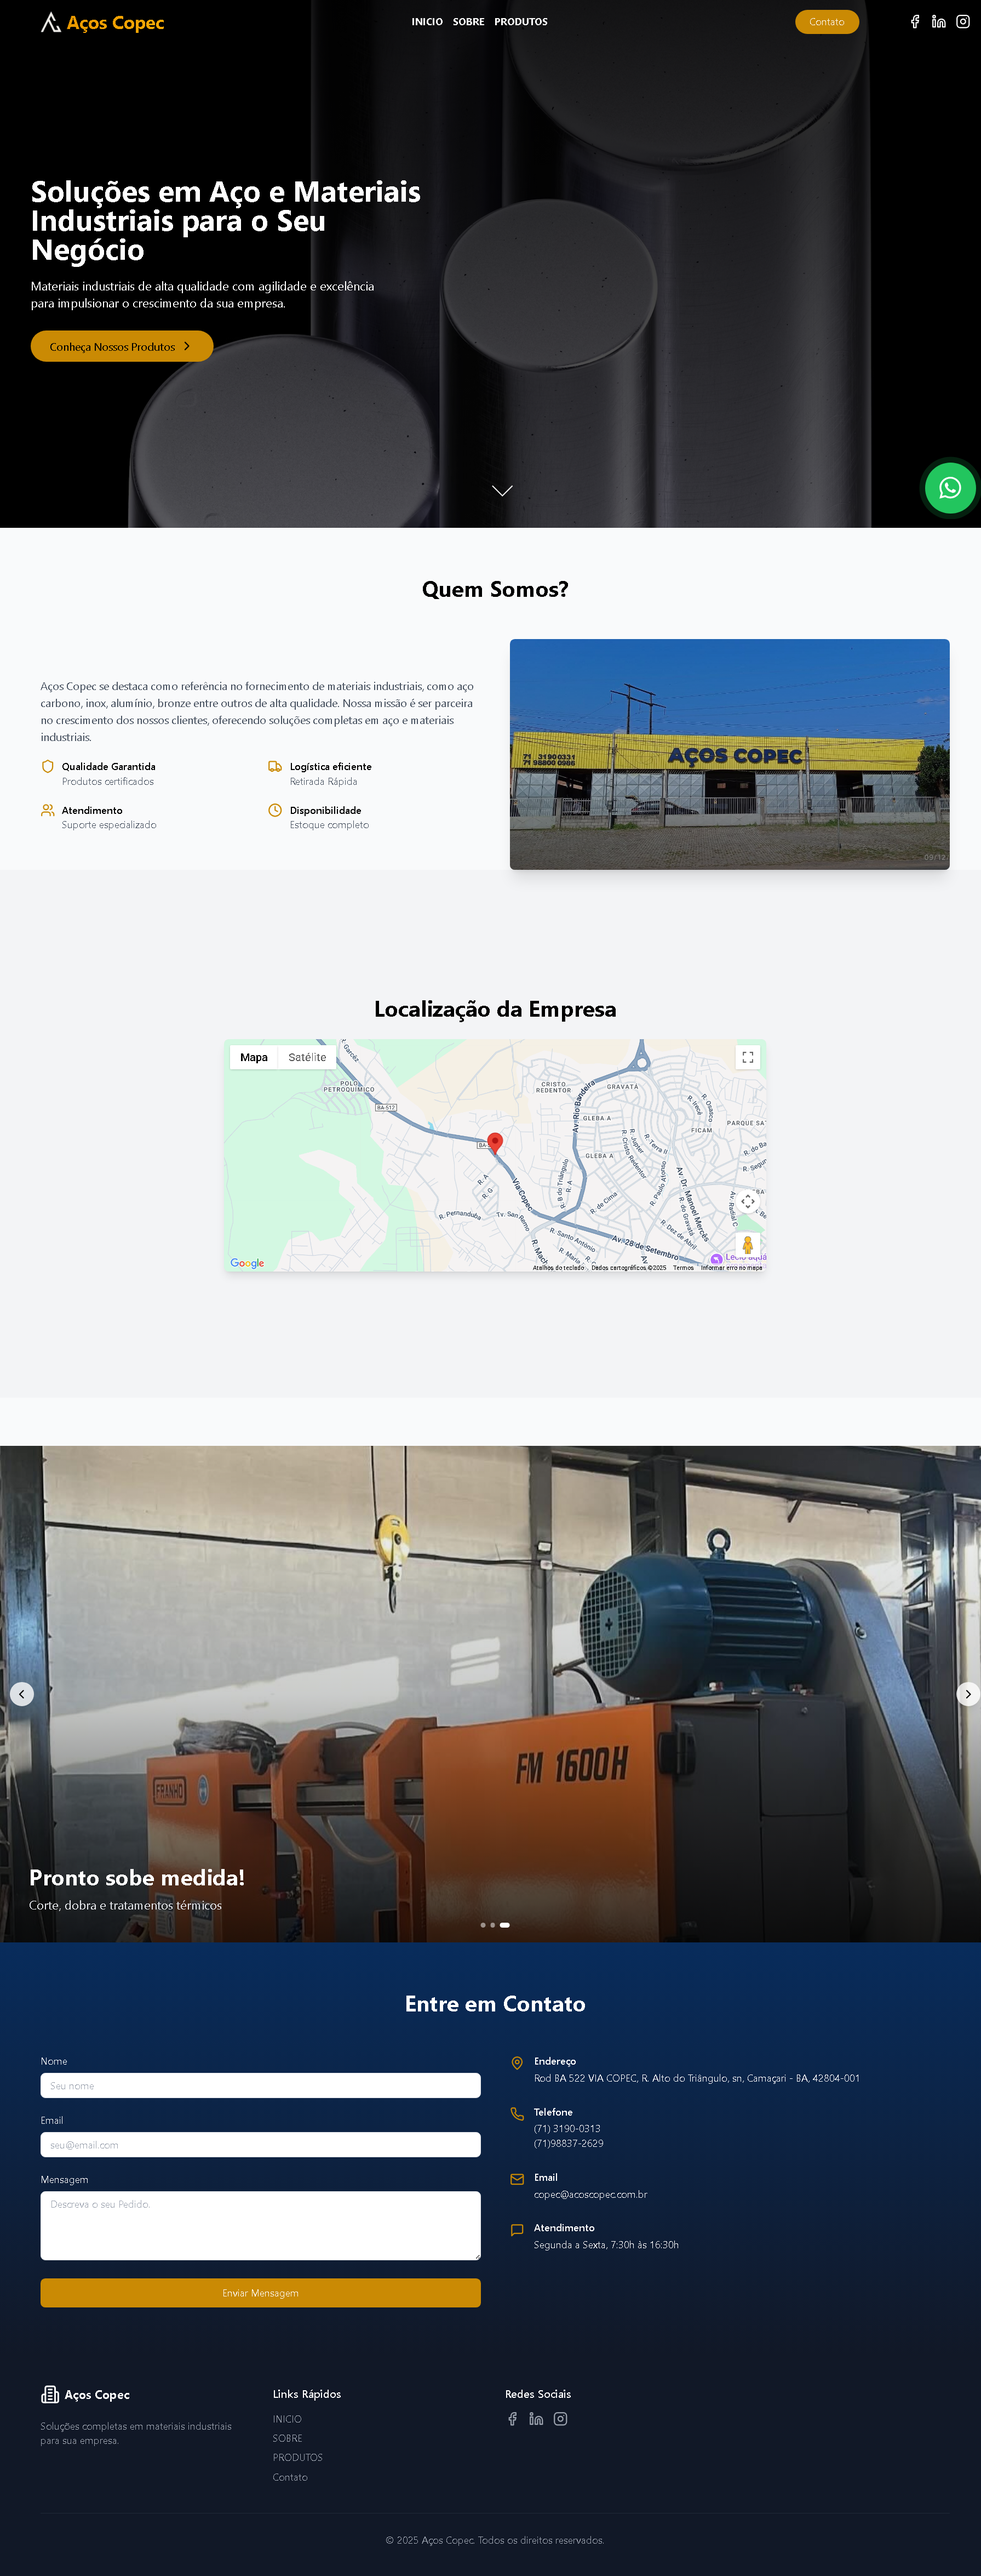
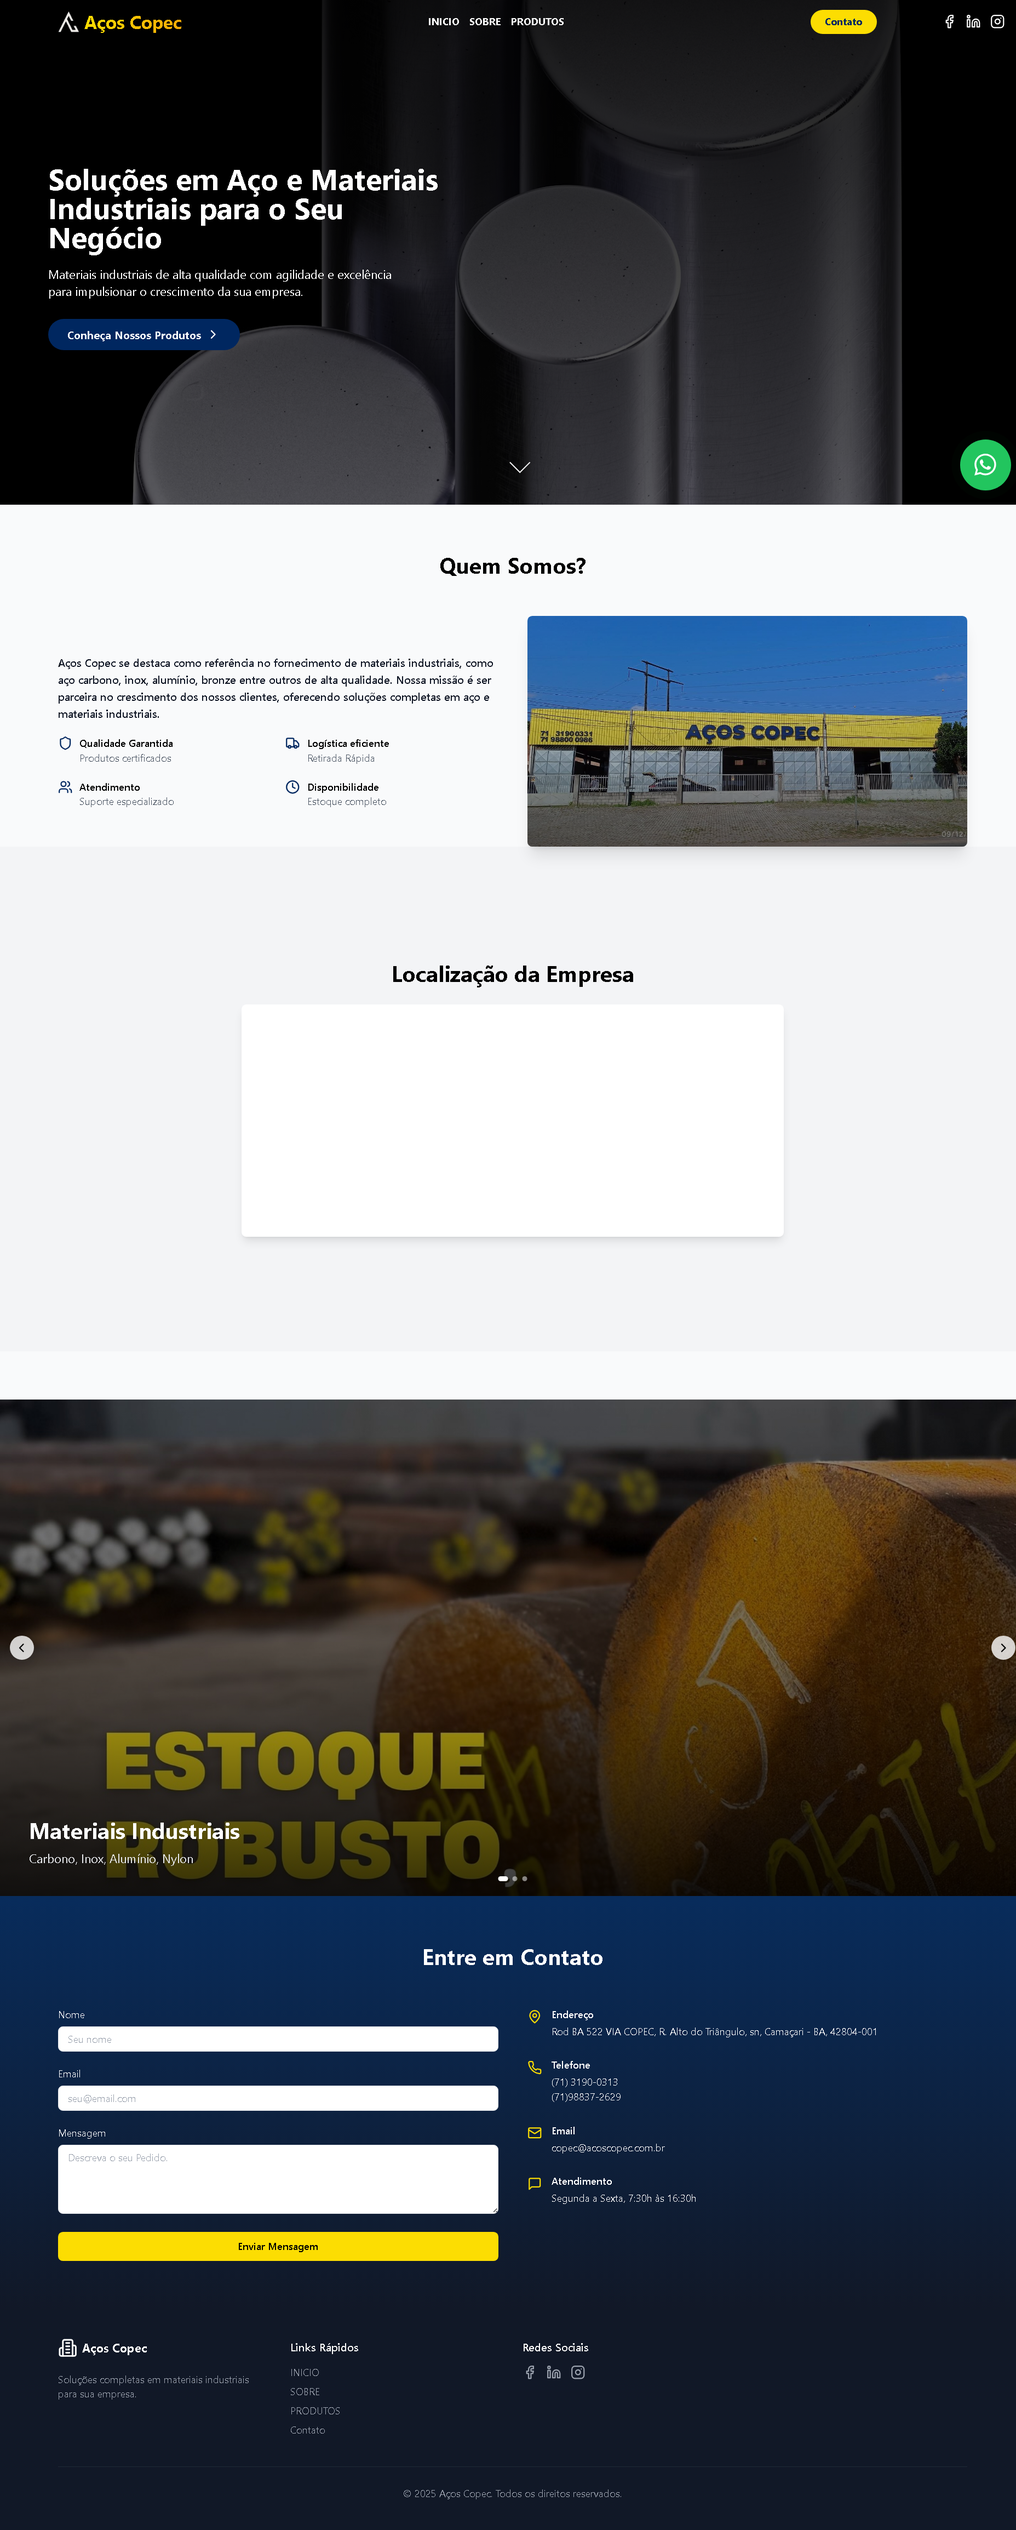
Copec terminado!

diff --git a/index.html b/index.html
@@ -143,8 +143,7 @@
                                 <p>Site profissional da empresa Copec, com informações sobre a empresa, produtos e serviços.</p>
                                 <p>Tecnologias: React, Next.js, Tailwind CSS, TypeScript, API Google Maps.</p>
                                 <div class="projeto-links">
-                                    <a href="#" target="_blank" class="github-link"><i class="bi bi-github"></i> -Privado</a>
-                                    <a href="#" target="_blank" class="demo-link"><i class="bi bi-link-45deg"></i> Demo</a>
+                                    <a href="https://acoscopec.com" target="_blank" class="demo-link"><i class="bi bi-link-45deg"></i> Confira o Site!</a>
                                 </div>
                             </div>
                         </div>
